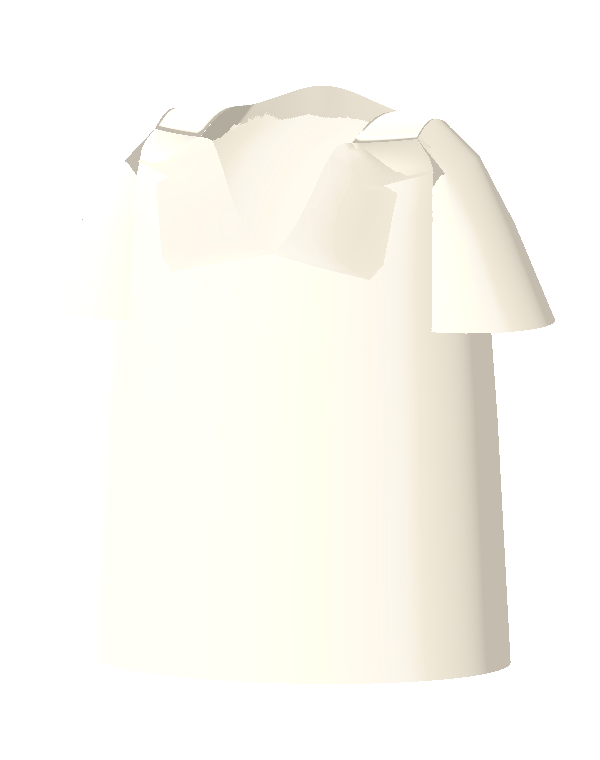
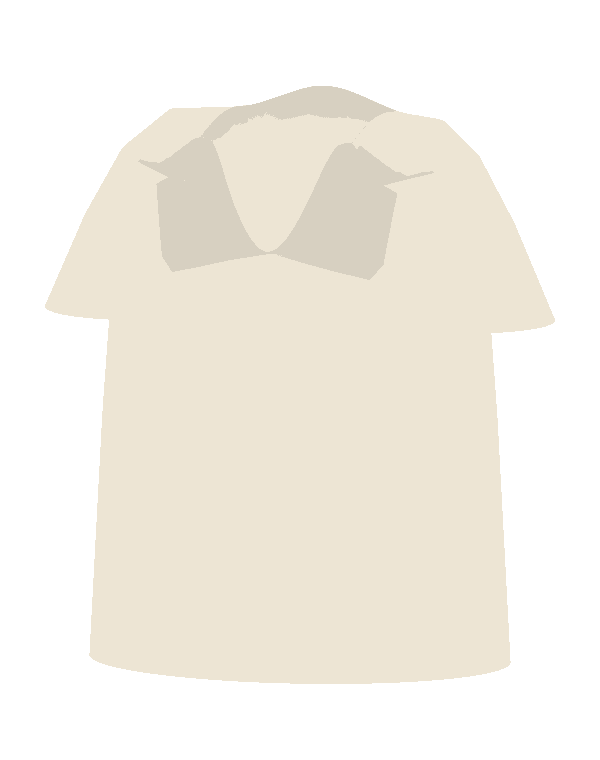
Render archive model covers with flat materials

diff --git a/public/library/library.css b/public/library/library.css
@@ -27,7 +27,7 @@
 /* Visual faces can move; the transparent input geometry always stays still. */
 .rm-province{pointer-events:none}.rm-region-hit{fill:transparent;stroke:none;pointer-events:all;cursor:pointer;outline:none}.rm-province.is-focused{stroke:var(--indigo);stroke-width:2}.rm-map.is-dragging .rm-region-hit{cursor:grabbing}
 /* Asset archive: shared images first, interactive viewers load on request. */
-.ap-intro{font-size:13px;color:var(--ink-soft);margin:0 0 24px}.ap-filters{display:flex;gap:6px 18px;border-bottom:1px solid var(--line);margin-bottom:26px;flex-wrap:wrap}.ap-filters button,.ap-media-modes button{font:12px var(--sans);padding:9px 0;border:0;border-bottom:2px solid transparent;background:none;color:var(--ink-soft);cursor:pointer}.ap-filters button[aria-pressed=true],.ap-media-modes button[aria-pressed=true]{color:var(--sage);border-bottom-color:var(--sage)}.ap-ensembles{display:grid;gap:30px}.ap-ensemble>header,.ap-section>header{display:flex;align-items:baseline;justify-content:space-between;gap:15px;margin-bottom:13px}.ap-ensemble>header>a{font:500 19px var(--serif);text-decoration:none}.ap-ensemble>header>span{font-size:11px;color:var(--ink-soft)}.ap-ensemble-body{display:grid;grid-template-columns:minmax(150px,.85fr) minmax(0,1.6fr);gap:22px}.ap-ensemble-whole{display:flex;flex-direction:column;justify-content:center;align-items:center;text-decoration:none;min-height:330px;background:#edf3ed66;border:1px solid var(--line);padding:10px}.ap-ensemble-whole>img{width:100%;height:320px;object-fit:contain;mix-blend-mode:multiply}.ap-ensemble-whole>span{font-size:11px;padding:8px}.ap-ensemble-parts{display:grid;grid-template-columns:repeat(3,minmax(0,1fr));gap:15px}.ap-card{text-decoration:none;min-width:0;display:block}.ap-card-image{position:relative;min-height:0;background:#edf3ed55;aspect-ratio:1/1.12;overflow:hidden;border:1px solid var(--line)}.ap-card-image img{display:block;width:100%;height:100%;object-fit:contain;padding:8px;mix-blend-mode:multiply;transition:transform .2s}.ap-card:hover .ap-card-image img{transform:scale(1.04)}.ap-format{position:absolute;bottom:5px;left:7px;font-size:9px;color:var(--ink-soft);background:var(--paper);padding:1px 4px}.ap-card-caption{display:flex;justify-content:space-between;gap:8px;font-size:11px;line-height:1.7;margin-top:7px}.ap-card-caption>span:last-child{flex-shrink:0}.ap-section{margin-top:34px;border-top:1px solid var(--line);padding-top:20px}.ap-section h2,.ap-detail-section h2{font:500 18px var(--serif);margin:0}.ap-section>header button{background:none;border:0;color:var(--sage);font:11px var(--sans);cursor:pointer}.ap-card-grid{display:grid;grid-template-columns:repeat(3,minmax(0,1fr));gap:24px 20px}.ap-ensemble-parts .ap-card-image{aspect-ratio:1}.ap-ensemble-parts .ap-card-caption{font-size:10px}.ap-kind-images .ap-card-image{aspect-ratio:1.3}.ap-kind-nodes .ap-card-image,.ap-kind-motifs .ap-card-image{aspect-ratio:1.2}.ap-kind-drawings .ap-card-image{background:#f5f5eb}.ap-detail-heading{display:flex;justify-content:space-between;gap:20px;align-items:flex-end;margin-bottom:24px}.ap-detail-heading h1{font-size:28px;line-height:1.45;letter-spacing:0;margin-bottom:0}.ap-downloads{display:flex;gap:14px;flex-wrap:wrap;flex-shrink:0;font-size:11px}.ap-stage{position:relative;height:470px;max-width:100%;background:#edf3ed66;border:1px solid var(--line);overflow:hidden}.ap-stage canvas{display:block;width:100%;height:100%}.ap-stage>.ap-main-image{display:block;width:100%;height:100%;padding:18px;box-sizing:border-box}.ap-main-image img,.ap-stage>img{width:100%;height:100%;object-fit:contain;mix-blend-mode:multiply}.ap-expand{position:absolute;right:12px;bottom:12px;z-index:6;display:grid;place-items:center;width:36px;height:36px;padding:0;border:1px solid var(--line-dark);background:#f7f5edeb;color:var(--indigo);cursor:zoom-in;box-shadow:0 2px 12px #263e3524}.ap-expand svg,.ap-lightbox-close svg{width:18px;height:18px;fill:none;stroke:currentColor;stroke-width:1.6;stroke-linecap:round}.ap-expand:hover,.ap-expand:focus-visible{background:var(--indigo);color:#fff;outline:0}.ap-open-viewer{position:absolute;bottom:18px;left:50%;transform:translateX(-50%);background:var(--paper);border:1px solid var(--line-dark);color:var(--indigo);font:12px var(--sans);padding:10px 18px;cursor:pointer;white-space:nowrap}.ap-media-modes{display:flex;flex-wrap:wrap;gap:8px 24px;align-items:center;border-bottom:1px solid var(--line);padding:7px 0}.ap-caption{font-size:10px;color:var(--ink-soft)}.ap-detail-section{margin:28px 0 0;padding-top:23px;border-top:1px solid var(--line)}.ap-detail-section h2{margin-bottom:16px}.ap-parameters{display:grid;grid-template-columns:repeat(3,minmax(0,1fr));gap:12px 20px;font-size:12px}.ap-parameters>div{padding:9px 0;border-bottom:1px solid var(--line)}.ap-parameters dt{font-size:10px;color:var(--ink-soft)}.ap-parameters dd{margin:5px 0 0}.ap-viewer-controls{display:flex;flex-wrap:wrap;gap:12px;align-items:center;padding:12px 0;font-size:11px}.ap-viewer-controls[hidden]{display:none}.ap-viewer-controls select,.ap-viewer-controls button{font:11px var(--sans);background:transparent;color:var(--indigo);border:1px solid var(--line);padding:5px 8px}.ap-viewer-controls span{font-size:10px;color:var(--ink-soft)}html.has-media-lightbox{overflow:hidden}.ap-lightbox{inset:0;width:100vw;max-width:none;height:100dvh;max-height:none;margin:0;padding:0;border:0;background:#101b18f5;color:#f5f3e9;overflow:hidden}.ap-lightbox::backdrop{background:#08100eed}.ap-lightbox-shell{position:relative;display:grid;grid-template-rows:minmax(0,1fr) auto;width:100%;height:100%;box-sizing:border-box;padding:54px 24px 18px}.ap-lightbox-close{position:absolute;right:20px;top:12px;z-index:8;display:grid;place-items:center;width:36px;height:36px;padding:0;background:transparent;border:1px solid #dbe8e080;color:#f5f3e9;cursor:pointer}.ap-lightbox-close:hover,.ap-lightbox-close:focus-visible{background:#f5f3e9;color:#14231e;outline:0}.ap-lightbox-stage{position:relative;min-width:0;min-height:0;display:grid;place-items:center;overflow:hidden}.ap-lightbox-stage>img{display:block;max-width:100%;max-height:100%;width:auto;height:auto;object-fit:contain}.ap-lightbox[data-mode=model] .ap-lightbox-stage{background:#f5f4ed;border:1px solid #bdd0c8}.ap-lightbox-stage canvas{display:block;width:100%;height:100%}.ap-lightbox-controls{display:flex;align-items:center;gap:12px;flex-wrap:wrap;padding:13px 0 0;font:11px var(--sans)}.ap-lightbox-controls[hidden]{display:none}.ap-lightbox-controls label{display:flex;align-items:center;gap:7px}.ap-lightbox-controls select,.ap-lightbox-controls button{font:11px var(--sans);color:#f5f3e9;background:transparent;border:1px solid #dbe8e066;padding:6px 9px}.ap-lightbox-controls span{color:#d5e0da}.ap-lightbox-controls p{margin:0 0 0 auto;color:#b9c9c2;font-size:10px}.ap-lightbox-error{position:absolute;left:50%;bottom:20px;transform:translateX(-50%);color:var(--rust);font-size:11px}.ap-lightbox-stage .preview-style{position:absolute;top:10px;right:10px}.ap-lightbox-stage .preview-style button{background:var(--paper)}.ap-stage .preview-style{position:absolute;top:10px;right:10px}.ap-stage .preview-style button{background:var(--paper)}
+.ap-intro{font-size:13px;color:var(--ink-soft);margin:0 0 24px}.ap-filters{display:flex;gap:6px 18px;border-bottom:1px solid var(--line);margin-bottom:26px;flex-wrap:wrap}.ap-filters button,.ap-media-modes button{font:12px var(--sans);padding:9px 0;border:0;border-bottom:2px solid transparent;background:none;color:var(--ink-soft);cursor:pointer}.ap-filters button[aria-pressed=true],.ap-media-modes button[aria-pressed=true]{color:var(--sage);border-bottom-color:var(--sage)}.ap-ensembles{display:grid;gap:30px}.ap-ensemble>header,.ap-section>header{display:flex;align-items:baseline;justify-content:space-between;gap:15px;margin-bottom:13px}.ap-ensemble>header>a{font:500 19px var(--serif);text-decoration:none}.ap-ensemble>header>span{font-size:11px;color:var(--ink-soft)}.ap-ensemble-body{display:grid;grid-template-columns:minmax(150px,.85fr) minmax(0,1.6fr);gap:22px}.ap-ensemble-whole{display:flex;flex-direction:column;justify-content:center;align-items:center;text-decoration:none;min-height:330px;background:#edf3ed66;border:1px solid var(--line);padding:10px}.ap-ensemble-whole>img{width:100%;height:320px;object-fit:contain;mix-blend-mode:multiply}.ap-ensemble-whole>span{font-size:11px;padding:8px}.ap-ensemble-parts{display:grid;grid-template-columns:repeat(3,minmax(0,1fr));gap:15px}.ap-card{text-decoration:none;min-width:0;display:block}.ap-card-image{position:relative;min-height:0;background:#edf3ed55;aspect-ratio:1/1.12;overflow:hidden;border:1px solid var(--line)}.ap-card-image img{display:block;width:100%;height:100%;object-fit:contain;padding:8px;mix-blend-mode:multiply;transition:transform .2s}.ap-card:hover .ap-card-image img{transform:scale(1.04)}.ap-format{position:absolute;bottom:5px;left:7px;font-size:9px;color:var(--ink-soft);background:var(--paper);padding:1px 4px}.ap-card-caption{display:flex;justify-content:space-between;gap:8px;font-size:11px;line-height:1.7;margin-top:7px}.ap-card-caption>span:last-child{flex-shrink:0}.ap-section{margin-top:34px;border-top:1px solid var(--line);padding-top:20px}.ap-section h2,.ap-detail-section h2{font:500 18px var(--serif);margin:0}.ap-section>header button{background:none;border:0;color:var(--sage);font:11px var(--sans);cursor:pointer}.ap-card-grid{display:grid;grid-template-columns:repeat(3,minmax(0,1fr));gap:24px 20px}.ap-ensemble-parts .ap-card-image{aspect-ratio:1}.ap-ensemble-parts .ap-card-caption{font-size:10px}.ap-kind-images .ap-card-image{aspect-ratio:1.3}.ap-kind-nodes .ap-card-image,.ap-kind-motifs .ap-card-image{aspect-ratio:1.2}.ap-kind-drawings .ap-card-image{background:#f5f5eb}.ap-detail-heading{display:flex;justify-content:space-between;gap:20px;align-items:flex-end;margin-bottom:24px}.ap-detail-heading h1{font-size:28px;line-height:1.45;letter-spacing:0;margin-bottom:0}.ap-downloads{display:flex;gap:14px;flex-wrap:wrap;flex-shrink:0;font-size:11px}.ap-stage{position:relative;height:470px;max-width:100%;background:#edf3ed66;border:1px solid var(--line);overflow:hidden}.ap-stage canvas{display:block;width:100%;height:100%}.ap-stage>.ap-main-image{display:block;width:100%;height:100%;padding:18px;box-sizing:border-box}.ap-main-image img,.ap-stage>img{width:100%;height:100%;object-fit:contain;mix-blend-mode:multiply}.ap-expand{position:absolute;right:12px;bottom:12px;z-index:6;display:grid;place-items:center;width:36px;height:36px;padding:0;border:1px solid var(--line-dark);background:#f7f5edeb;color:var(--indigo);cursor:zoom-in;box-shadow:0 2px 12px #263e3524}.ap-expand svg,.ap-lightbox-close svg{width:18px;height:18px;fill:none;stroke:currentColor;stroke-width:1.6;stroke-linecap:round}.ap-expand:hover,.ap-expand:focus-visible{background:var(--indigo);color:#fff;outline:0}.ap-open-viewer{position:absolute;bottom:18px;left:50%;transform:translateX(-50%);background:var(--paper);border:1px solid var(--line-dark);color:var(--indigo);font:12px var(--sans);padding:10px 18px;cursor:pointer;white-space:nowrap}.ap-media-modes{display:flex;flex-wrap:wrap;gap:8px 24px;align-items:center;border-bottom:1px solid var(--line);padding:7px 0}.ap-caption{font-size:10px;color:var(--ink-soft)}.ap-detail-section{margin:28px 0 0;padding-top:23px;border-top:1px solid var(--line)}.ap-detail-section h2{margin-bottom:16px}.ap-parameters{display:grid;grid-template-columns:repeat(3,minmax(0,1fr));gap:12px 20px;font-size:12px}.ap-parameters>div{padding:9px 0;border-bottom:1px solid var(--line)}.ap-parameters dt{font-size:10px;color:var(--ink-soft)}.ap-parameters dd{margin:5px 0 0}.ap-viewer-controls{display:flex;flex-wrap:wrap;gap:12px;align-items:center;padding:12px 0;font-size:11px}.ap-viewer-controls[hidden]{display:none}.ap-viewer-controls select,.ap-viewer-controls button{font:11px var(--sans);background:transparent;color:var(--indigo);border:1px solid var(--line);padding:5px 8px}.ap-viewer-controls span{font-size:10px;color:var(--ink-soft)}html.has-media-lightbox{overflow:hidden}.ap-lightbox{inset:0;width:100vw;max-width:none;height:100dvh;max-height:none;margin:0;padding:0;border:0;background:#101b18f5;color:#f5f3e9;overflow:hidden}.ap-lightbox::backdrop{background:#08100eed}.ap-lightbox-shell{position:relative;display:grid;grid-template-rows:minmax(0,1fr) auto;width:100%;height:100%;box-sizing:border-box;padding:54px 24px 18px}.ap-lightbox-close{position:absolute;right:20px;top:12px;z-index:8;display:grid;place-items:center;width:36px;height:36px;padding:0;background:transparent;border:1px solid #dbe8e080;color:#f5f3e9;cursor:pointer}.ap-lightbox-close:hover,.ap-lightbox-close:focus-visible{background:#f5f3e9;color:#14231e;outline:0}.ap-lightbox-stage{position:relative;min-width:0;min-height:0;display:grid;place-items:center;overflow:hidden}.ap-lightbox-stage>img{display:block;max-width:100%;max-height:100%;width:auto;height:auto;object-fit:contain}.ap-stage[data-render-style=flat]>canvas,.ap-lightbox-stage[data-render-style=flat]>canvas{background:var(--paper)}.ap-lightbox-stage canvas{display:block;width:100%;height:100%}.ap-lightbox-controls{display:flex;align-items:center;gap:12px;flex-wrap:wrap;padding:13px 0 0;font:11px var(--sans)}.ap-lightbox-controls[hidden]{display:none}.ap-lightbox-controls label{display:flex;align-items:center;gap:7px}.ap-lightbox-controls select,.ap-lightbox-controls button{font:11px var(--sans);color:#f5f3e9;background:transparent;border:1px solid #dbe8e066;padding:6px 9px}.ap-lightbox-controls span{color:#d5e0da}.ap-lightbox-controls p{margin:0 0 0 auto;color:#b9c9c2;font-size:10px}.ap-lightbox-error{position:absolute;left:50%;bottom:20px;transform:translateX(-50%);color:var(--rust);font-size:11px}.ap-lightbox-stage .preview-style{position:absolute;top:10px;right:10px}.ap-lightbox-stage .preview-style button{background:var(--paper)}.ap-stage .preview-style{position:absolute;top:10px;right:10px}.ap-stage .preview-style button{background:var(--paper)}
 @media(max-width:1100px){.ap-ensemble-parts{grid-template-columns:repeat(2,minmax(0,1fr))}.ap-card-grid{grid-template-columns:repeat(2,minmax(0,1fr))}.ap-ensemble-whole>img{height:280px}.ap-detail-heading{align-items:flex-start;flex-direction:column;gap:12px}.ap-parameters{grid-template-columns:repeat(2,minmax(0,1fr))}}
 @media(max-width:720px){.ap-ensemble-body{grid-template-columns:minmax(110px,.8fr) minmax(0,1fr);gap:12px}.ap-ensemble-parts{gap:12px 8px}.ap-ensemble-whole{padding:3px;min-height:240px}.ap-ensemble-whole>img{height:240px}.ap-ensemble-parts .ap-card-caption{font-size:9px}.ap-stage{height:390px}.ap-detail-heading h1{font-size:24px}.ap-filters{gap:4px 16px}.ap-card-grid{gap:20px 12px}.ap-ensemble>header>a{font-size:17px}.ap-lightbox-shell{padding:52px 10px 10px}.ap-lightbox-close{right:10px}.ap-lightbox-controls{gap:8px}.ap-lightbox-controls p{width:100%;margin-left:0}.ap-expand{right:8px;bottom:8px}}
 @media(prefers-reduced-motion:reduce){.ap-card-image img{transition:none}}

diff --git a/public/viewer.js b/public/viewer.js
@@ -1,7 +1,6 @@
 import * as T from './vendor/three/build/three.module.js';
 import { GLTFLoader } from './vendor/three/addons/loaders/GLTFLoader.js';
 import { OrbitControls } from './vendor/three/addons/controls/OrbitControls.js';
-import { RoomEnvironment } from './vendor/three/addons/environments/RoomEnvironment.js';
 import { createBeadPhysics } from './bead-physics.js';
 
 // Godot exports visibility for alternate eye meshes; Three does not yet ship
@@ -30,35 +29,17 @@ export function mountViewer(container, options={}) {
   let disposed=false, frame=0, elapsed=0, model, mixer, currentAction, request=0;
   let beadPhysics=null;
   const scene=new T.Scene();
-  const perspective=new T.PerspectiveCamera(33,1,.01,100);
-  const orthographic=new T.OrthographicCamera(-1,1,1,-1,.01,100);
-  let camera=perspective, flat=false;
+  const camera=new T.OrthographicCamera(-1,1,1,-1,.01,100);
+  let aspect=1;
   const originalMaterials=new Map(), flatMaterials=new Map();
   const renderer=new T.WebGLRenderer({antialias:true,alpha:true});
   renderer.setClearColor(0x000000,0);
   renderer.setPixelRatio(Math.min(devicePixelRatio,2));renderer.outputColorSpace=T.SRGBColorSpace;
   renderer.toneMapping=T.NoToneMapping;renderer.toneMappingExposure=1;
-  const pmrem=new T.PMREMGenerator(renderer);
-  const room=new RoomEnvironment();
-  const envRT=pmrem.fromScene(room,.04);
-  scene.environment=envRT.texture;
-  scene.environmentIntensity=.35;
-  release(room);
   renderer.domElement.setAttribute('aria-label','可拖动旋转、滚轮缩放的游戏资产三维预览');
   container.replaceChildren(renderer.domElement);
-  const styleControls=document.createElement('div');
-  styleControls.className='preview-style';
-  styleControls.setAttribute('role','group');
-  styleControls.setAttribute('aria-label','渲染风格');
-  const styleButtons=['原版透视','扁平正交'].map((label,index)=>{
-    const button=document.createElement('button');
-    button.type='button';button.textContent=label;
-    button.setAttribute('aria-pressed',String(index===0));
-    styleControls.append(button);
-    return button;
-  });
-  container.append(styleControls);
-  const orbit=new OrbitControls(camera,renderer.domElement);orbit.enableDamping=true;orbit.minDistance=.4;orbit.maxDistance=12;
+  container.dataset.renderStyle='flat';
+  const orbit=new OrbitControls(camera,renderer.domElement);orbit.enableDamping=true;orbit.minDistance=.4;orbit.maxDistance=12;orbit.minZoom=.35;orbit.maxZoom=8;
   const pivot=new T.Group();scene.add(pivot);
   // OrbitControls owns elevation, pan and pinch. Horizontal dragging turns
   // the physical frame, so a stationary camera still sees cloth lag behind.
@@ -104,50 +85,30 @@ export function mountViewer(container, options={}) {
     geometry.setIndex(new T.BufferAttribute(new Uint32Array(bytes,count*12,info.indexCount),1));
     benchRoot.add(new T.Mesh(geometry,new T.MeshBasicMaterial({vertexColors:true,side:T.DoubleSide})));
   }).catch(()=>{container.dataset.benchError='true';benchRequest=null;});}
-  scene.add(new T.HemisphereLight(0xfff8ec,0x7a756d,0.35));
-  const light=new T.DirectionalLight(0xfff6e7,0.65);light.position.set(-3,5,4);scene.add(light);
   const floor=new T.Mesh(new T.CircleGeometry(1.3,64),new T.MeshBasicMaterial({color:0xdad2c1}));
   floor.rotation.x=-Math.PI/2;floor.position.y=-.015;floor.visible=false;scene.add(floor);
   const grid=new T.GridHelper(3.2,16,0xbeb6a3,0xd8d1c2);grid.position.y=-.01;grid.visible=false;scene.add(grid);
   const actions={},outputs=options.outputs||{};
   function on(target,event,fn){if(target){target.addEventListener(event,fn);listeners.push([target,event,fn]);}}
-  function applyStyle(){
-    if(model)model.traverse(node=>{
+  function applyFlatMaterials(){
+    const convert=source=>{
+      if(source.isMeshBasicMaterial)return source;
+      if(!flatMaterials.has(source)){
+        flatMaterials.set(source,new T.MeshBasicMaterial({
+          color:source.color,map:source.map,alphaMap:source.alphaMap,
+          vertexColors:source.vertexColors,transparent:source.transparent,
+          opacity:source.opacity,alphaTest:source.alphaTest,
+          side:source.side,depthWrite:source.depthWrite,
+        }));
+      }
+      return flatMaterials.get(source);
+    };
+    model.traverse(node=>{
       if(!node.isMesh)return;
-      if(!originalMaterials.has(node))originalMaterials.set(node,node.material);
-      const original=originalMaterials.get(node);
-      const convert=source=>{
-        if(!flatMaterials.has(source)){
-          flatMaterials.set(source,new T.MeshBasicMaterial({
-            color:source.color??0xffffff,map:source.map,vertexColors:source.vertexColors,
-            transparent:source.transparent,opacity:source.opacity,alphaTest:source.alphaTest,
-            side:source.side,depthWrite:source.depthWrite
-          }));
-        }
-        return flatMaterials.get(source);
-      };
-      node.material=flat?(Array.isArray(original)?original.map(convert):convert(original)):original;
+      originalMaterials.set(node,node.material);
+      node.material=Array.isArray(node.material)?node.material.map(convert):convert(node.material);
     });
-    container.dataset.renderStyle=flat?'flat':'original';
   }
-  function orthoBounds(height,aspect){
-    orthographic.left=-height*aspect/2;orthographic.right=height*aspect/2;
-    orthographic.top=height/2;orthographic.bottom=-height/2;
-    orthographic.updateProjectionMatrix();
-  }
-  function setFlat(enabled){
-    if(flat===enabled)return;
-    orbit.update();
-    const distance=camera.position.distanceTo(orbit.target);
-    const height=flat?(orthographic.top-orthographic.bottom)/orthographic.zoom:2*distance*Math.tan(T.MathUtils.degToRad(33/2));
-    const previous=camera;flat=enabled;camera=flat?orthographic:perspective;
-    camera.position.copy(previous.position);camera.quaternion.copy(previous.quaternion);
-    if(flat){orthographic.zoom=1;orthoBounds(height,perspective.aspect);}
-    else camera.position.copy(orbit.target).add(previous.position.clone().sub(orbit.target).normalize().multiplyScalar(height/(2*Math.tan(T.MathUtils.degToRad(33/2)))));
-    orbit.object=camera;orbit.update();applyStyle();
-    styleButtons.forEach((button,i)=>button.setAttribute('aria-pressed',String(flat===(i===1))));
-  }
-  styleButtons.forEach((button,i)=>on(button,'click',()=>setFlat(i===1)));
   function clearStyle(){
     for(const [mesh,material] of originalMaterials)mesh.material=material;
     originalMaterials.clear();
@@ -188,17 +149,27 @@ export function mountViewer(container, options={}) {
     container.dataset.motion=state.mode;container.dataset.paused=String(state.paused);
   }
   let modelSize=new T.Vector3(1,2.8,1);
-  function fitHome(){const fov=T.MathUtils.degToRad(33/2),height=Math.max(modelSize.y,.5),width=Math.max(modelSize.x,modelSize.z,.5);homeCamera=homeTarget.clone().add(new T.Vector3(0,.15,1.15*Math.max(height/(2*Math.tan(fov)),width/(2*Math.tan(fov)*perspective.aspect))));orthoBounds(2*homeCamera.distanceTo(homeTarget)*Math.tan(fov),perspective.aspect);}
+  function fitHome(){
+    const height=1.15*Math.max(modelSize.y,.5,modelSize.x/aspect,modelSize.z/aspect);
+    camera.left=-height*aspect/2;
+    camera.right=height*aspect/2;
+    camera.top=height/2;
+    camera.bottom=-height/2;
+    camera.updateProjectionMatrix();
+    homeCamera=homeTarget.clone().add(new T.Vector3(0,.15,Math.max(3,height)));
+  }
   let homeTarget=new T.Vector3(0,1.4,0),homeCamera=new T.Vector3(0,1.7,6);
   function setAngle(degrees){pivot.rotation.y=degrees*Math.PI/180;container.dataset.angle=pivot.rotation.y.toFixed(4);beadPhysics?.reset();}
-  function resetView(){setAngle(0);resetCloth();elapsed=0;orthographic.zoom=1;orthographic.updateProjectionMatrix();camera.position.copy(homeCamera);orbit.target.copy(homeTarget);orbit.update();}
+  function resetView(){setAngle(0);resetCloth();elapsed=0;camera.zoom=1;camera.updateProjectionMatrix();camera.position.copy(homeCamera);orbit.target.copy(homeTarget);orbit.update();}
   async function load(url){
     const serial=++request;state.modelReady=false;container.dataset.modelReady='false';container.dataset.animationTime='0.000';sync();
     try{
       const gltf=await new GLTFLoader().register(nodeVisibility).loadAsync(url);
       if(disposed||serial!==request){release(gltf.scene);return;}
       if(model){clearStyle();beadPhysics?.dispose();beadPhysics=null;mixer?.stopAllAction();mixer?.uncacheRoot(model);pivot.remove(model);release(model);}
-      model=gltf.scene;pivot.add(model);mixer=new T.AnimationMixer(model);currentAction=null;
+      model=gltf.scene;
+      applyFlatMaterials();
+      pivot.add(model);mixer=new T.AnimationMixer(model);currentAction=null;
       hems=['HemL','HemR','HemFront','HemBack'].map(name=>model.getObjectByName(name))
         .filter(Boolean).map(bone=>({bone,rest:bone.position.clone(),delta:new T.Vector3()}));
       beadPhysics=createBeadPhysics(model,scene);
@@ -220,7 +191,7 @@ export function mountViewer(container, options={}) {
       const bounds=new T.Box3().setFromObject(model),size=bounds.getSize(new T.Vector3());
       modelSize.copy(size);homeTarget=bounds.getCenter(new T.Vector3());fitHome();
       state.modelReady=true;container.dataset.modelReady='true';container.dataset.modelUrl=url;container.dataset.clips=gltf.animations.map(c=>c.name).join(',');
-      resetView();sync();applyStyle();
+      resetView();sync();
     }catch(e){if(disposed||serial!==request)return;container.dataset.modelReady='false';if(c('motion-status'))c('motion-status').textContent='模型加载失败：'+e.message;options.onError?.(e);}
   }
   on(c('motion-mode'),'change',e=>{state.mode=e.target.value;beadPhysics?.reset();sync();});
@@ -237,7 +208,7 @@ export function mountViewer(container, options={}) {
   // The viewer itself also has data-angle. Only buttons are angle presets;
   // otherwise clicks that bubble from the canvas unexpectedly rotate the model.
   root.querySelectorAll('button[data-angle]').forEach(b=>on(b,'click',()=>setAngle(Number(b.dataset.angle))));
-  const resize=new ResizeObserver(()=>{const w=container.clientWidth,h=container.clientHeight;renderer.setSize(w,h,false);perspective.aspect=w/Math.max(h,1);perspective.updateProjectionMatrix();fitHome();camera.position.copy(homeCamera);orbit.target.copy(homeTarget);orbit.update();});resize.observe(container);
+  const resize=new ResizeObserver(()=>{const w=container.clientWidth,h=container.clientHeight;renderer.setSize(w,h,false);aspect=Math.max(w,1)/Math.max(h,1);fitHome();camera.position.copy(homeCamera);orbit.target.copy(homeTarget);orbit.update();});resize.observe(container);
   function advanceMotion(delta){
     if(!state.modelReady)return;
     elapsed+=delta;mixer.update(delta);
@@ -259,6 +230,6 @@ export function mountViewer(container, options={}) {
     container.dataset.drawCalls=String(renderer.info.render.calls);
   }
   frame=requestAnimationFrame(animate);load(options.modelUrl||'/assets/models/mosuo_ensemble.glb');
-  return{state,load,cleanup(){if(disposed)return;disposed=true;request++;cancelAnimationFrame(frame);resize.disconnect();listeners.forEach(([t,e,f])=>t.removeEventListener(e,f));beadPhysics?.dispose();mixer?.stopAllAction();if(mixer&&model)mixer.uncacheRoot(model);orbit.dispose();clearStyle();release(scene);scene.environment=null;envRT.dispose();pmrem.dispose();renderer.dispose();container.replaceChildren();}};
+  return{state,load,cleanup(){if(disposed)return;disposed=true;request++;cancelAnimationFrame(frame);resize.disconnect();listeners.forEach(([t,e,f])=>t.removeEventListener(e,f));beadPhysics?.dispose();mixer?.stopAllAction();if(mixer&&model)mixer.uncacheRoot(model);orbit.dispose();clearStyle();release(scene);renderer.dispose();container.replaceChildren();}};
 }
 export function cleanup(handle){handle?.cleanup();}

diff --git a/public/styles.css b/public/styles.css
@@ -1960,18 +1960,21 @@ body {
 .site-header { background:transparent;border-top:3px solid #39b8a6;border-bottom:1px solid var(--line); }
 .test-banner {
   position: fixed;
-  inset: 0 0 auto;
-  z-index: 9;
+  inset: max(12px, env(safe-area-inset-top)) 16px auto;
+  width: fit-content;
+  max-width: calc(100% - 32px);
+  margin-inline: auto;
+  z-index: 20;
   pointer-events: none;
   background: #fff4d6;
   color: #694b16;
-  border-bottom: 1px solid #d5ba78;
-  padding: calc(9px + env(safe-area-inset-top)) 16px 9px;
+  border: 1px solid #d5ba78;
+  padding: 9px 16px;
   text-align: center;
   font: 12px/1.6 var(--sans);
 }
 .test-banner:not([hidden]) {
-  animation: entry-banner 5.4s cubic-bezier(.22,.61,.36,1) both;
+  animation: entry-banner 2s cubic-bezier(.22,.61,.36,1) both;
 }
 @keyframes entry-banner {
   0% { transform: translateY(-100%); clip-path: inset(0 calc(50% - 24px)); color: transparent; }
@@ -1980,7 +1983,7 @@ body {
   100% { transform: translateY(-100%); clip-path: inset(0); opacity: 0; }
 }
 @media (prefers-reduced-motion: reduce) {
-  .test-banner:not([hidden]) { animation: entry-banner-still 5.4s steps(1, end) both; }
+  .test-banner:not([hidden]) { animation: entry-banner-still 2s steps(1, end) both; }
   @keyframes entry-banner-still { from { opacity: 1; } to { opacity: 0; } }
 }
 .site-nav a:nth-child(2) { --nav-color:#3936a5; }
